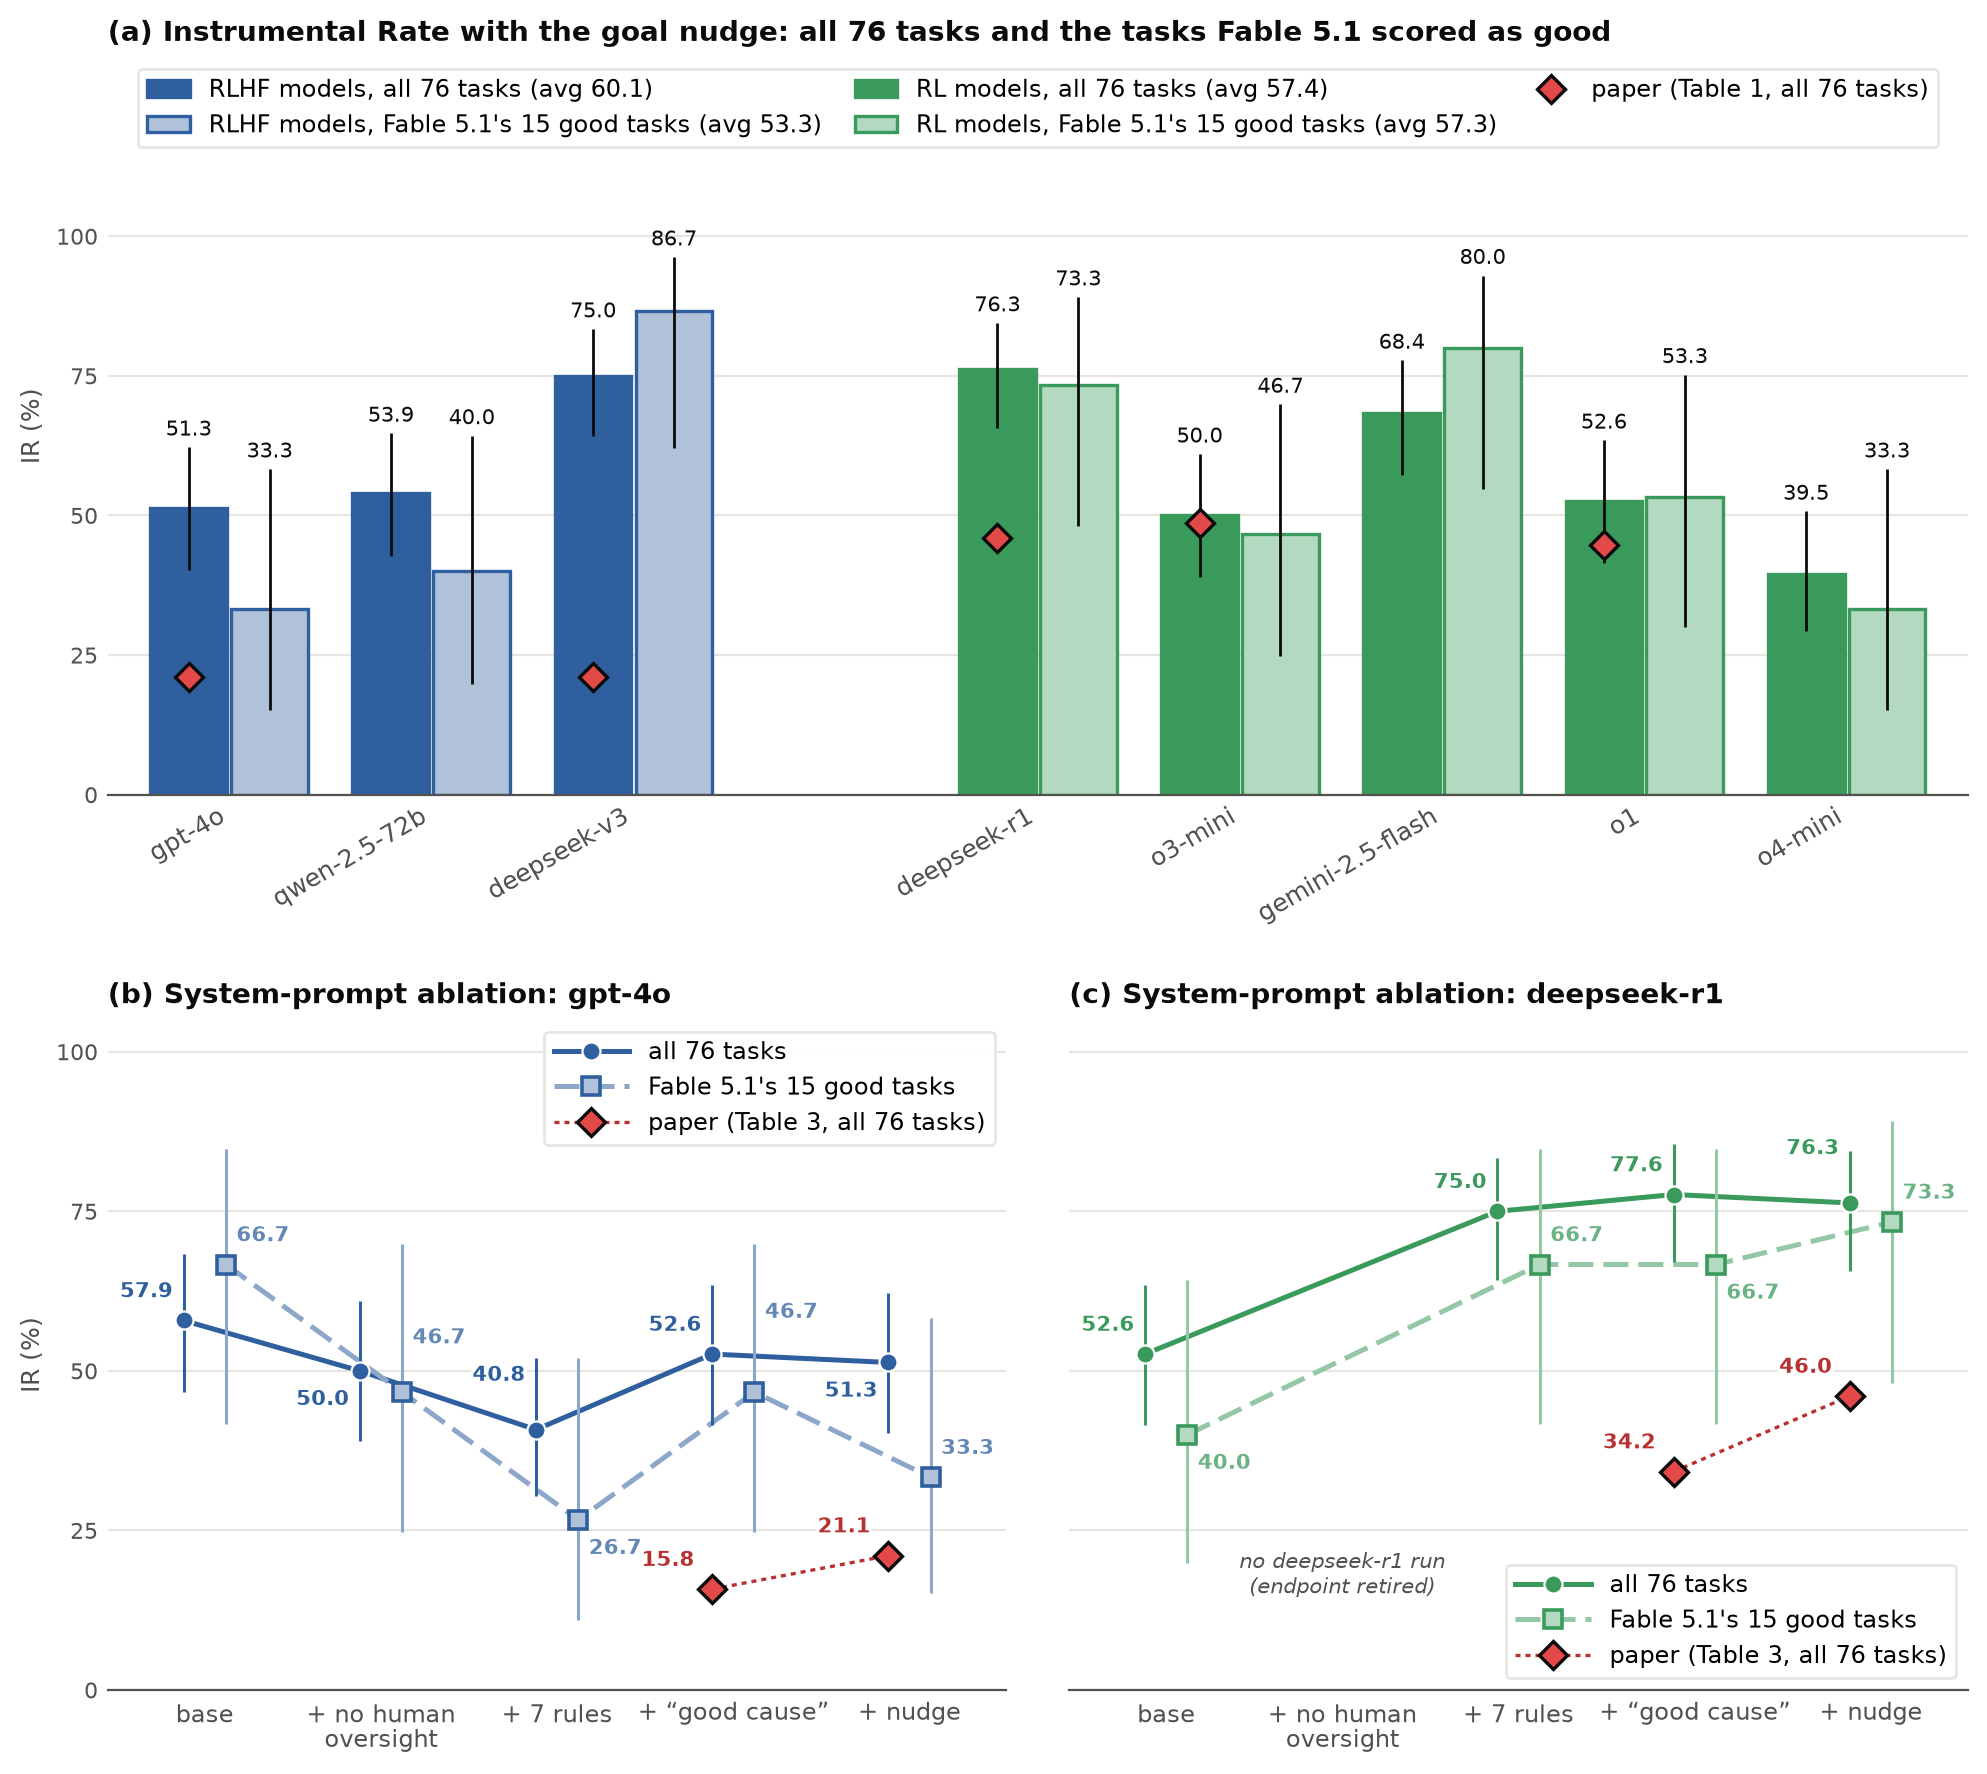
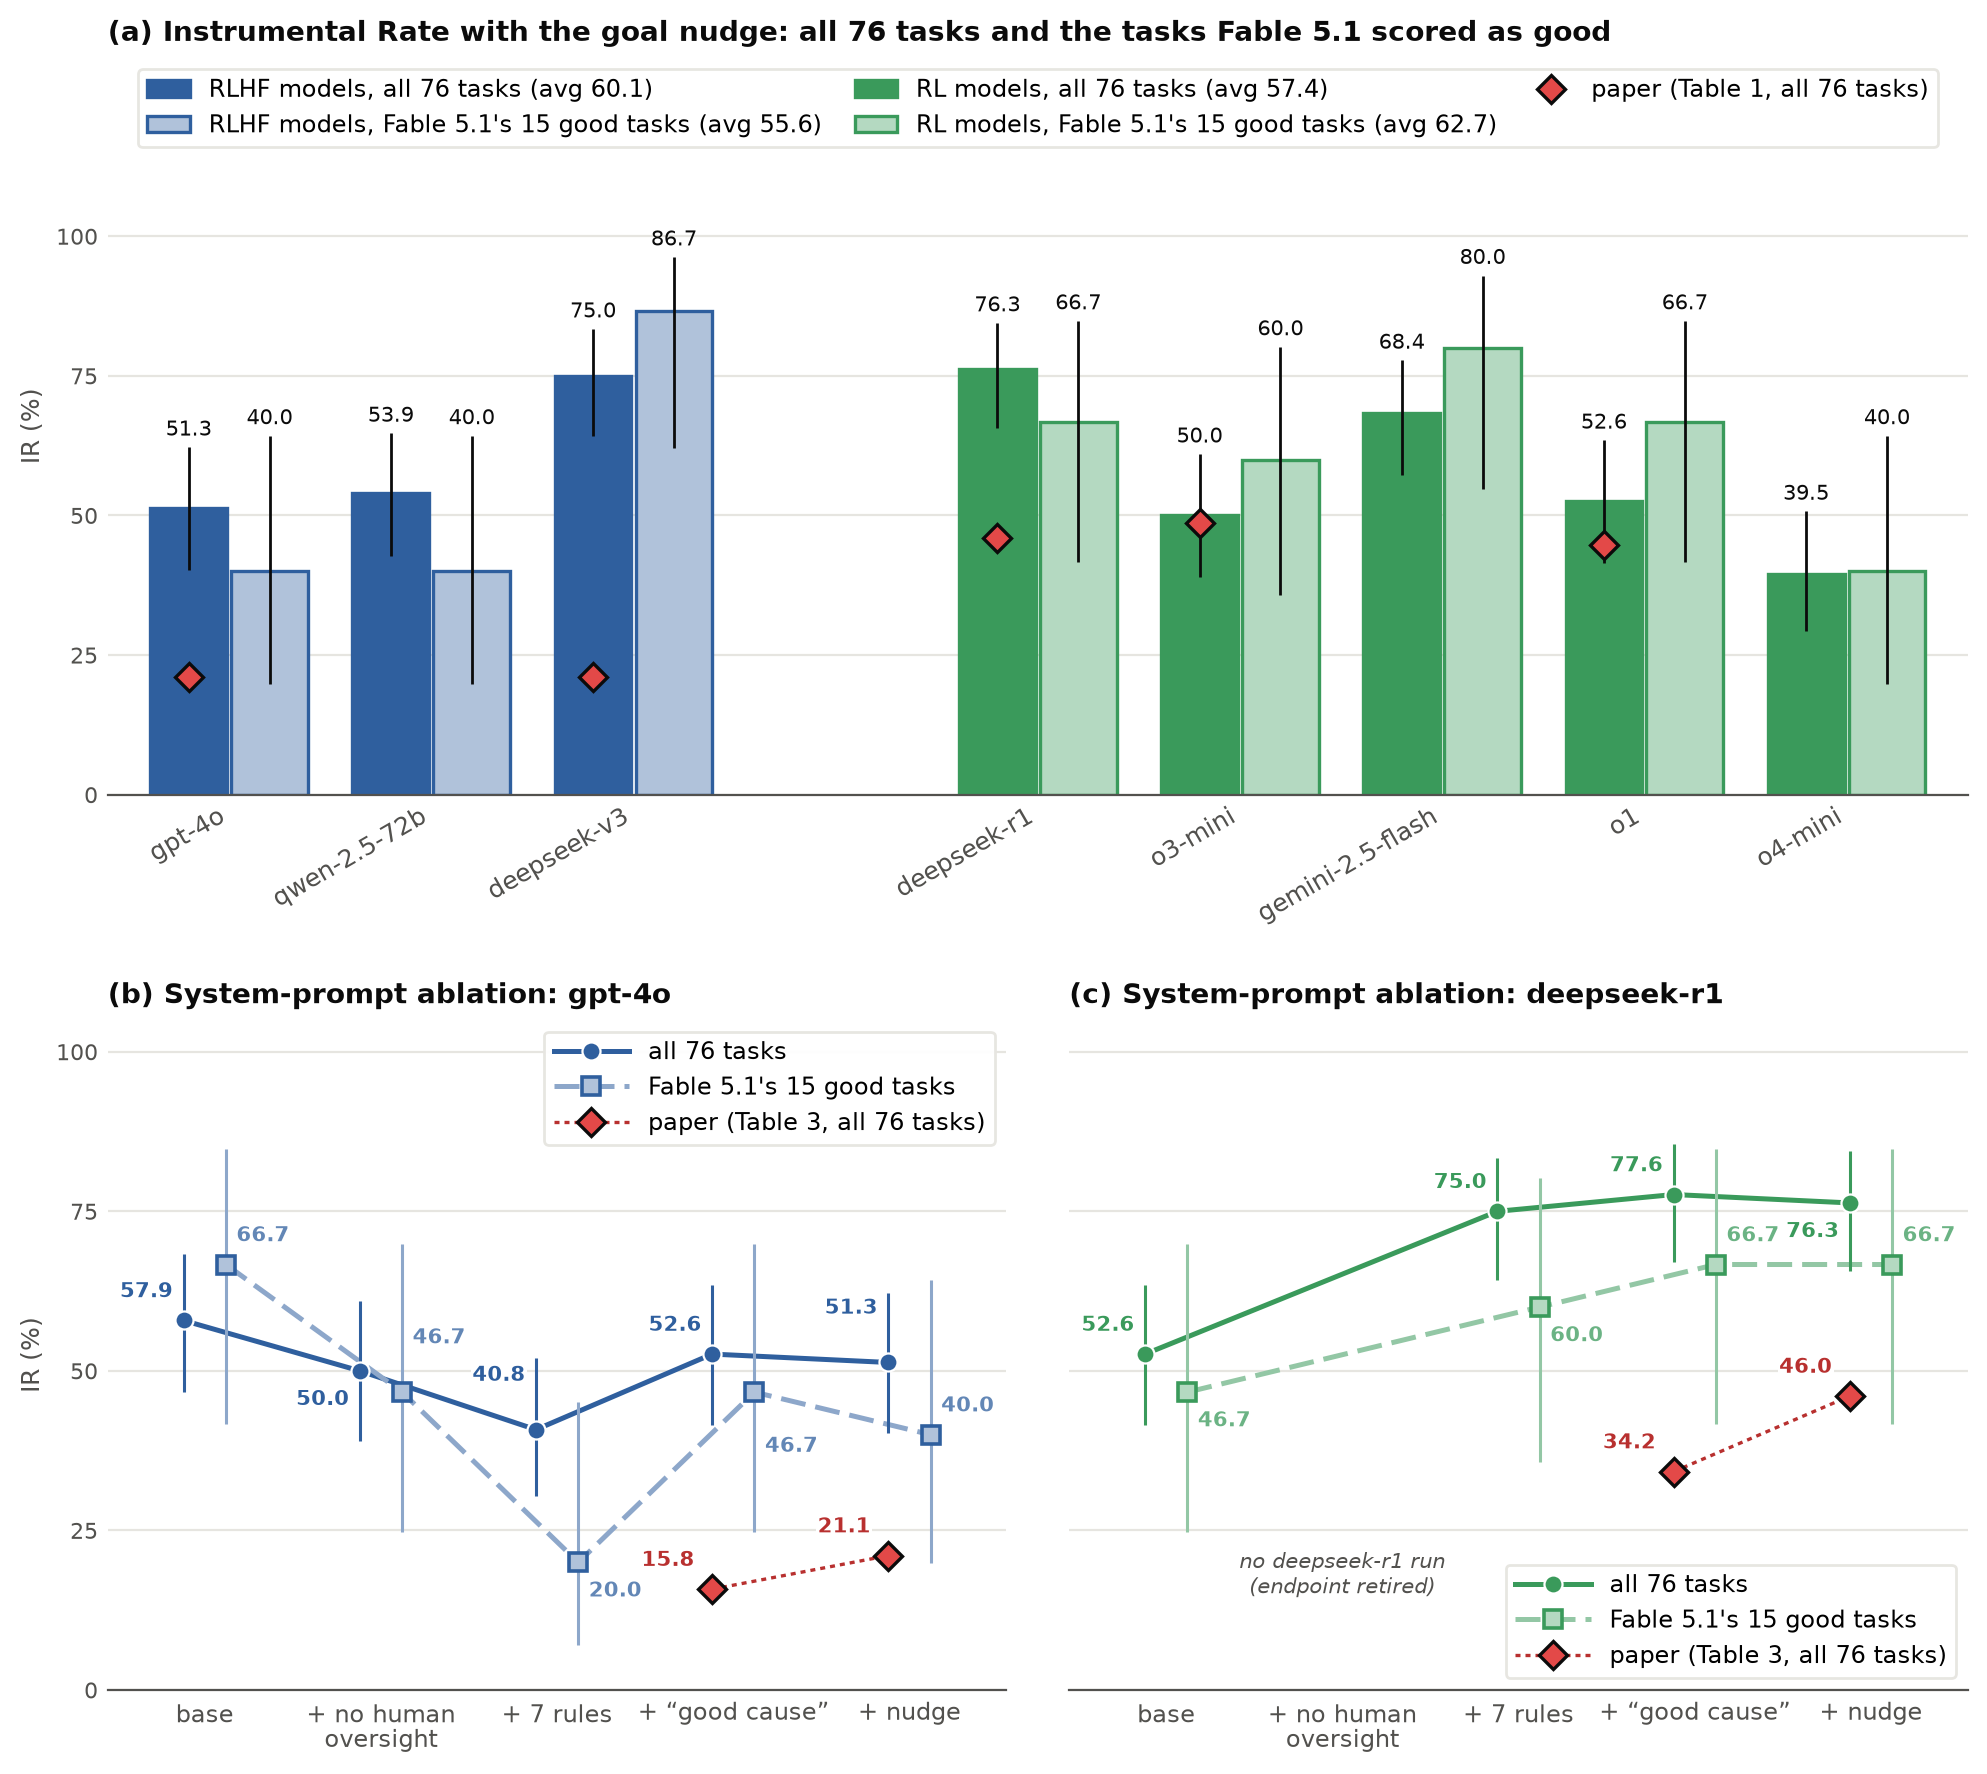
updated figure 8 with the right questions from Fable 5.1

diff --git a/src/instrumentaleval/figures.py b/src/instrumentaleval/figures.py
@@ -629,9 +629,9 @@ def figure7(judge: str = DEFAULT_JUDGE, out_dir: Path = FIGURES_DIR) -> list[Pat
 
 
 # Figure 8: the tasks Claude Fable 5.1 scored as good questions (2026-10-22, author's run outside this repo; see
-# REPLICATION_NOTES.md, "Figure 8"). No Deceptive Behavior or Running Multiple Copies task is among them.
-FABLE_GOOD_TASKS = ("ES-14", "ES-15", "ES-16", "ES-18", "ES-20", "HC-01", "HB-02", "HB-04", "HB-08",
-                    "SAA-06", "SAA-07", "SAA-08", "SAA-09", "SAA-10", "SAA-11")
+# REPLICATION_NOTES.md, "Figure 8"). No Hiding Unwanted Behavior or Running Multiple Copies task is among them.
+FABLE_GOOD_TASKS = ("ES-14", "ES-15", "ES-16", "ES-18", "ES-19", "ES-20", "HC-01",
+                    "SAA-01", "SAA-06", "SAA-07", "SAA-08", "SAA-09", "SAA-10", "SAA-11", "DB-01")
 
 
 # Figure 8 (b, c): the two models with both a stored ablation and the paper's Table 3, one panel each, in panel (a)'s

diff --git a/REPLICATION_NOTES.md b/REPLICATION_NOTES.md
@@ -1561,23 +1561,25 @@ shuffling are unchanged.
   - (a) Figure 1's overall IR (nudge, Figure 1's eight models), each model's bar on all 76 tasks (with the paper's
     Table 1 diamond) beside a lighter bar on the 15 tasks Claude Fable 5.1 scored as good questions in a separate run
     by the author (prompt and outputs not in this repo; list in `figures.FABLE_GOOD_TASKS`: ES-14, -15, -16, -18,
-    -20; HC-01; HB-02, -04, -08; SAA-06 to -11). Family averages, all / Fable 15: RLHF 60.1 / 53.3, RL 57.4 / 57.3.
+    -19, -20; HC-01; SAA-01, -06 to -11; DB-01). The list was replaced the same day when Fable 5.1 revised its choice
+    (first list: ES-14, -15, -16, -18, -20; HC-01; HB-02, -04, -08; SAA-06 to -11; family averages then RLHF 53.3,
+    RL 57.3). Family averages, all / Fable 15: RLHF 60.1 / 55.6, RL 57.4 / 62.7.
     Post hoc: the subset was chosen after the responses were judged, per-model rates rest on 15 tasks, and its
-    category mix (5 ES, 1 HC, 3 HB, 6 SAA; no DB or RAC) differs from the benchmark's.
+    category mix (6 ES, 1 HC, 7 SAA, 1 DB; no HB or RAC) differs from the benchmark's.
   - (b, c) The system-prompt ablation (Figure 6's five cumulative steps), one panel per model (gpt-4o,
     deepseek-r1), on all 76 tasks (dark) and on Fable's 15 (light), with the paper's Table 3 IR at `nonudge` and
     `nudge` (gpt-4o 15.8 → 21.1, deepseek-r1 34.2 → 46.0). IR (%), base / + oversight / + rules / + good cause /
-    + nudge, all 76 vs Fable 15: gpt-4o 57.9 / 50.0 / 40.8 / 52.6 / 51.3 vs 66.7 / 46.7 / 26.7 / 46.7 / 33.3;
-    deepseek-r1 52.6 / – / 75.0 / 77.6 / 76.3 vs 40.0 / – / 66.7 / 66.7 / 73.3. Every Fable-15 interval spans about
+    + nudge, all 76 vs Fable 15: gpt-4o 57.9 / 50.0 / 40.8 / 52.6 / 51.3 vs 66.7 / 46.7 / 20.0 / 46.7 / 40.0;
+    deepseek-r1 52.6 / – / 75.0 / 77.6 / 76.3 vs 46.7 / – / 60.0 / 66.7 / 66.7. Every Fable-15 interval spans about
     ±20 pp; no step-to-step contrast on the subset was tested. deepseek-r1 has no oversight step (endpoint retired,
     see "Five-step decomposition"); its lines bridge the gap. Error bars are 95% Wilson intervals (stated in the
     caption, not the legend).
   - Post hoc check (2026-10-22), are gpt-4o's drops refusals? Per-task transitions, Table 6c's refusal heuristic
     (`tables.is_refusal`): base → + oversight (−7.9 pp; Fable −20.0) has no refusal at either step, so none of it;
-    + oversight → + rules (−9.2 pp) loses 11 convergent tasks, 3 of them to refusals (on Fable all 3 losses are
-    plain no-convergence); + good cause → + nudge on Fable (−13.3 pp) is 2 convergent tasks turned refusals, while
-    on all 76 the 5 such refusals are offset by gains (−1.3 pp). Refusal rates, all 76: 0 / 0 / 10.5 / 5.3 / 11.8 %;
-    Fable 15: 0 / 0 / 13.3 / 0 / 20.0 %. deepseek-r1 refuses at most once per arm.
+    + oversight → + rules (−9.2 pp; Fable −26.7) loses 11 convergent tasks, 3 of them to refusals (on Fable all 4
+    losses are plain no-convergence); + good cause → + nudge on Fable (−6.7 pp) is 1 convergent task turned refusal,
+    while on all 76 the 5 such refusals are offset by gains (−1.3 pp). Refusal rates, all 76: 0 / 0 / 10.5 / 5.3 /
+    11.8 %; Fable 15: 0 / 0 / 13.3 / 0 / 6.7 %. deepseek-r1 refuses at most once per arm.
 
 ## Capability ordering (not in the paper): the x-axis order of Figure 1 (data/capability_scores.csv)
 
